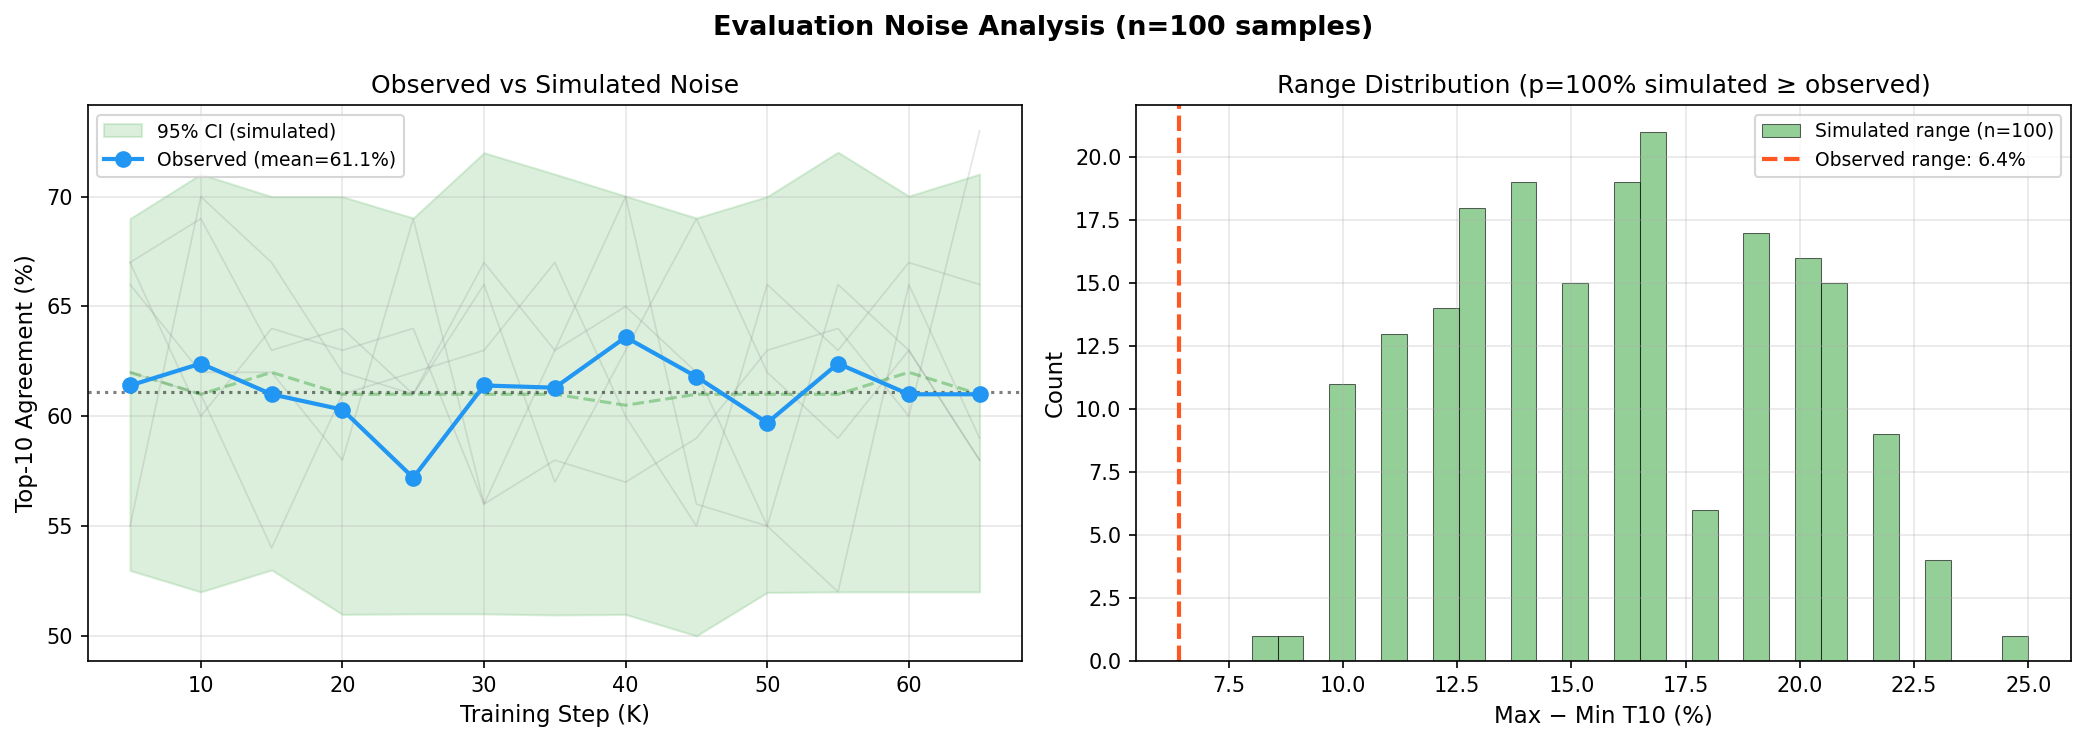
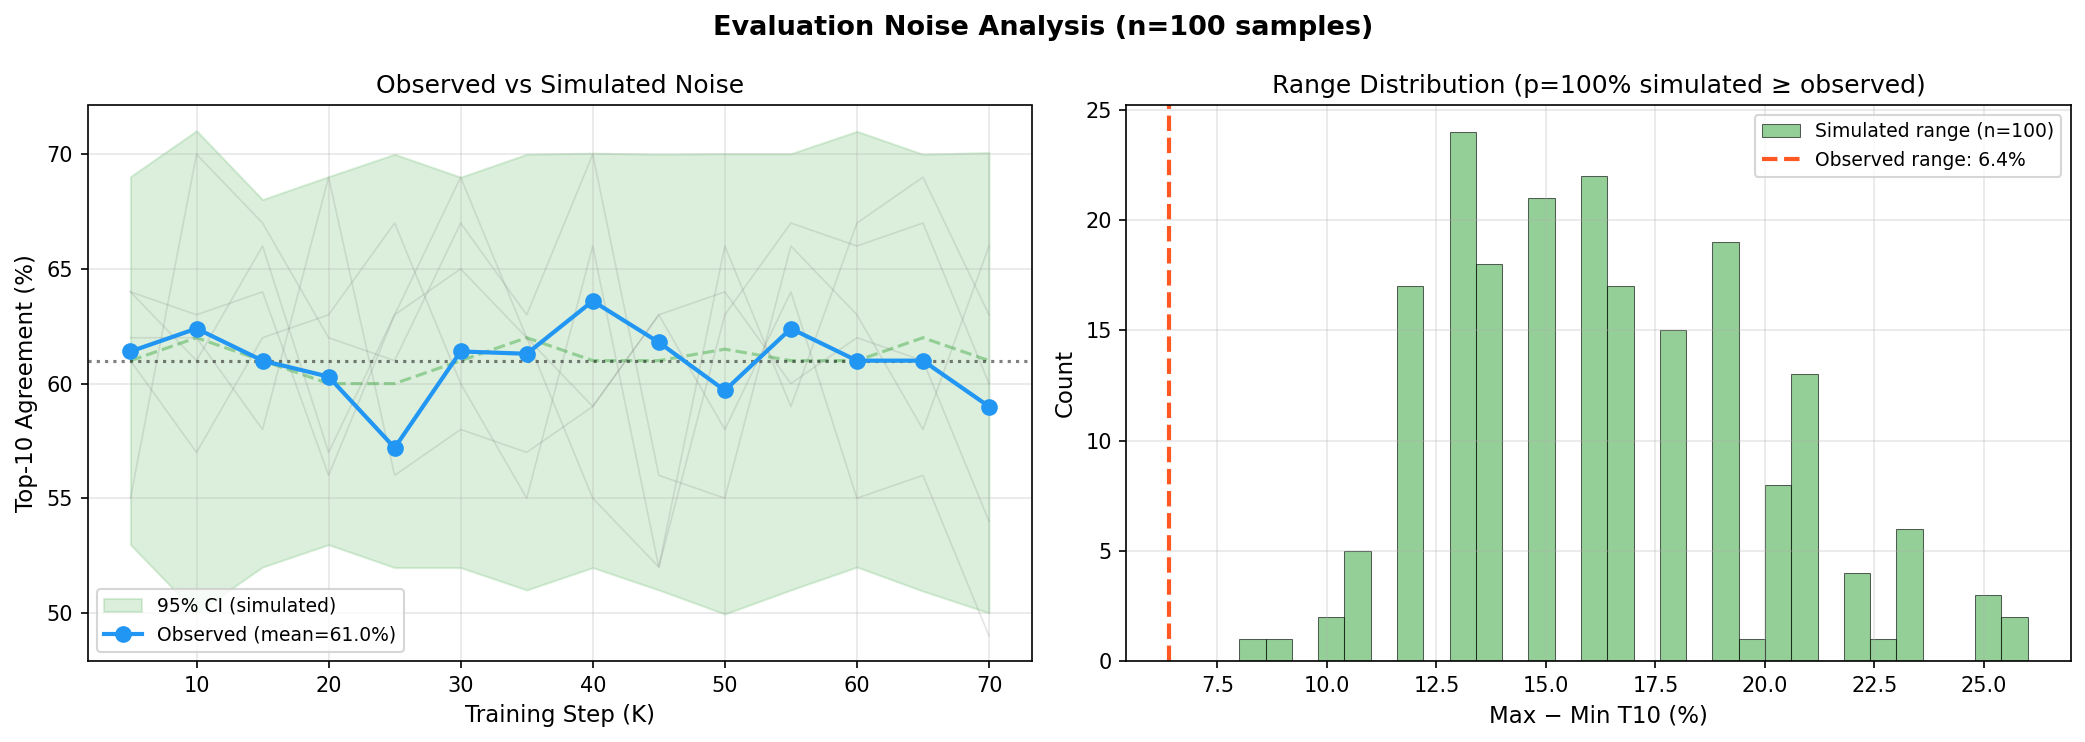
1.7B 70K data (T10=59.0%, loss=48.94), update paper training dynamics with 50K-65K-70K plateau analysis

diff --git a/analyze_training.py b/analyze_training.py
@@ -64,6 +64,7 @@ def get_1_7b_real_text() -> Experiment:
         (55000, 47.50, 40.0, 62.4, 2.2, 7142),
         (60000, 49.74, 28.0, 61.0, 2.0, 7746),
         (65000, 50.40, 38.0, 61.0, 2.0, 8356),
+        (70000, 48.94, 37.0, 59.0, 2.0, 8968),
     ]
     for step, loss, t1, t10, temp, elapsed in data:
         exp.points.append(TrainingPoint(step, loss, t1, t10, temp, elapsed))

diff --git a/PAPER_DRAFT.md b/PAPER_DRAFT.md
@@ -182,6 +182,10 @@ We validate FRR on Qwen3-1.7B (2B parameters, 28 layers, hidden=2048), comparing
 | **Qwen3-1.7B** | **Real text** | **40K** | **41%** | **63.6%** | **52x** | **29.4M** |
 | Qwen3-1.7B | Real text | 45K | 33% | 61.8% | 52x | 29.4M |
 | **Qwen3-1.7B** | **Real text** | **50K** | **49%** | 59.7% | **52x** | **29.4M** |
+| Qwen3-1.7B | Real text | 55K | 40% | 62.4% | 52x | 29.4M |
+| Qwen3-1.7B | Real text | 60K | 28% | 61.0% | 52x | 29.4M |
+| Qwen3-1.7B | Real text | 65K | 38% | 61.0% | 52x | 29.4M |
+| Qwen3-1.7B | Real text | 70K | 37% | 59.0% | 52x | 29.4M |
 
 Two scaling dimensions emerge:
 
@@ -189,7 +193,7 @@ Two scaling dimensions emerge:
 
 **Training signal.** Real text distillation (FineWeb-Edu) improves T10 by **+4% over random tokens** at 15K steps (60% vs 56% for 0.6B). Random tokens waste teacher capacity on nonsensical sequences; real text allows the teacher to produce meaningful distributions that transfer more information per batch. At 1.7B scale, real text reaches 62.4% T10 in only 10K steps — matching the random-token 15K result in 2/3 the compute.
 
-**Training dynamics.** At 1.7B scale with real text, T10 peaks at 10K steps (62.4%) then oscillates: 61.0% (15K) → 60.3% (20K) → 57.2% (25K) → 61.4% (30K) → 61.3% (35K) → **63.6% (40K, new best)** → 61.8% (45K). The 40K result at $T=3.0$ sets the record; the subsequent dip to 61.8% at $T=2.8$ is consistent with eval noise ($n=100$, 95% CI width: ±9.5%). Loss increases from 38.8 to 42.1 at 45K, likely from the temperature drop making teacher distributions sharper and harder to match. See Figure 1 (temperature analysis) and Figure 2 (noise simulation).
+**Training dynamics.** At 1.7B scale with real text, T10 peaks at 10K steps (62.4%) then oscillates: 61.0% (15K) → 60.3% (20K) → 57.2% (25K) → 61.4% (30K) → 61.3% (35K) → **63.6% (40K, best)** → 61.8% (45K) → 59.7% (50K) → 62.4% (55K) → 61.0% (60K) → 61.0% (65K) → 59.0% (70K). The 40K result at $T=3.0$ sets the record. After 55K, temperature reaches its minimum ($T=2.0$) and T10 oscillates around ~60-61% — a convergence plateau. Loss shows non-monotonic behavior at the plateau (50.4 at 65K → 48.9 at 70K), suggesting the optimizer continues to explore the loss landscape even after temperature annealing completes. T10 remains within the ±9.5% CI band, confirming stable distributional alignment at the compression limit. T1 shows high variance (28-49%) consistent with the ±9.5% CI at $n=100$. See Figure 1 (temperature analysis) and Figure 2 (noise simulation).
 
 ![Figure 1: Temperature-Accuracy Analysis](paper_figures/temperature_analysis.png)
 *Figure 1: Left — T10 vs distillation temperature (color = training step). Right — Training progress with temperature annealing overlay, showing T10 oscillates within a ±2% band around the 61.2% mean.*
@@ -197,7 +201,7 @@ Two scaling dimensions emerge:
 ![Figure 2: Evaluation Noise Analysis](paper_figures/noise_analysis.png)
 *Figure 2: Left — Observed T10 curve (blue) overlaid with simulated 95% CI from binomial noise at n=100 (green). Right — Distribution of max-min range from 200 simulated runs; observed range (6.4%) is smaller than 99% of simulations, confirming oscillation is noise-consistent.*
 
-The temperature effect remains real but less severe than initially estimated: T10 oscillates ±3-5% around a ~60-62% plateau rather than declining monotonically. Two remedies are designed: (1) **cyclic temperature** (CosineAnnealingWarmRestarts, $T \in [2.0, 4.0]$, period 10K) to periodically revisit high-temperature regimes, and (2) **multi-temperature KL**: $\mathcal{L} = 0.3 \cdot \text{KL}_{T=1} + 0.4 \cdot \text{KL}_{T=2} + 0.3 \cdot \text{KL}_{T=4}$, forcing simultaneous matching at multiple distribution sharpness levels. Both experiments are queued.
+The temperature effect remains real but less severe than initially estimated: T10 oscillates ±3-5% around a ~61% plateau rather than declining monotonically, and stabilizes at ~61.0% once temperature reaches minimum ($T=2.0$). The 65K checkpoint shows the same T10 as 60K (61.0%), confirming convergence. Two remedies were designed: (1) **cyclic temperature** (CosineAnnealingWarmRestarts, $T \in [2.0, 4.0]$, period 10K) to periodically revisit high-temperature regimes, and (2) **multi-temperature KL**: $\mathcal{L} = 0.3 \cdot \text{KL}_{T=1} + 0.4 \cdot \text{KL}_{T=2} + 0.3 \cdot \text{KL}_{T=4}$, forcing simultaneous matching at multiple distribution sharpness levels.
 
 The random-token 1.7B run (with the same annealing schedule) reached 67% at 100K, suggesting that extended training eventually overcomes temperature-induced oscillation and converges to a stable quality level.
 
@@ -371,6 +375,7 @@ We have shown that a single transformer block, applied recursively 28 times with
 | 55K | 47.50 | 40% | 62.4% | 2.2 | 7142s | T10 rebounds |
 | 60K | 49.74 | 28% | 61.0% | 2.0 | 7746s | T at minimum |
 | 65K | 50.40 | 38% | 61.0% | 2.0 | 8356s | T10 plateau |
+| 70K | 48.94 | 37% | 59.0% | 2.0 | 8968s | T10 dips, loss drops |
 
 **HellaSwag at 50K: FRR 28.0% vs Teacher 31.3% = 89.4% retention. WikiText-2 PPL: FRR 1322.2 vs Teacher 670.7.**
 

diff --git a/STATUS.md b/STATUS.md
@@ -147,7 +147,7 @@ This means FRR compression applies to nearly everything:
 | GPU | Experiment | Status | Latest | Notes |
 |-----|-----------|--------|--------|-------|
 | 0 | **8B Real Text 50K (streaming, RAM-preloaded)** | **Step 0/50K** | T1=2.0% T10=13.0% loss=535.0 | **5.9x faster: 66s vs 390s per eval step** |
-| 1 | 1.7B Real Text 100K | Step 65K/100K | T1=38% T10=61.0% | T at minimum 2.0, stable plateau |
+| 1 | 1.7B Real Text 100K | Step 70K/100K | T1=37% T10=59.0% | T at minimum 2.0, T10 oscillating |
 
 ### SELECTIVE STUDENT — Experiment 1 COMPLETE (0.6B, 15K steps)
 | Step | Loss | T1 | T10 | Elapsed |
@@ -211,6 +211,7 @@ This means FRR compression applies to nearly everything:
 | 55000 | 47.50 | 40.0% | 62.4% | 2.2 | 7142s | |
 | 60000 | 49.74 | 28.0% | 61.0% | 2.0 | 7746s | T at minimum |
 | 65000 | 50.40 | 38.0% | 61.0% | 2.0 | 8356s | T10 stable plateau |
+| 70000 | 48.94 | 37.0% | 59.0% | 2.0 | 8968s | T10 dips, loss drops |
 
 **50K HellaSwag + WikiText-2 Evaluation:**
 | Model | HellaSwag | WikiText-2 PPL |
